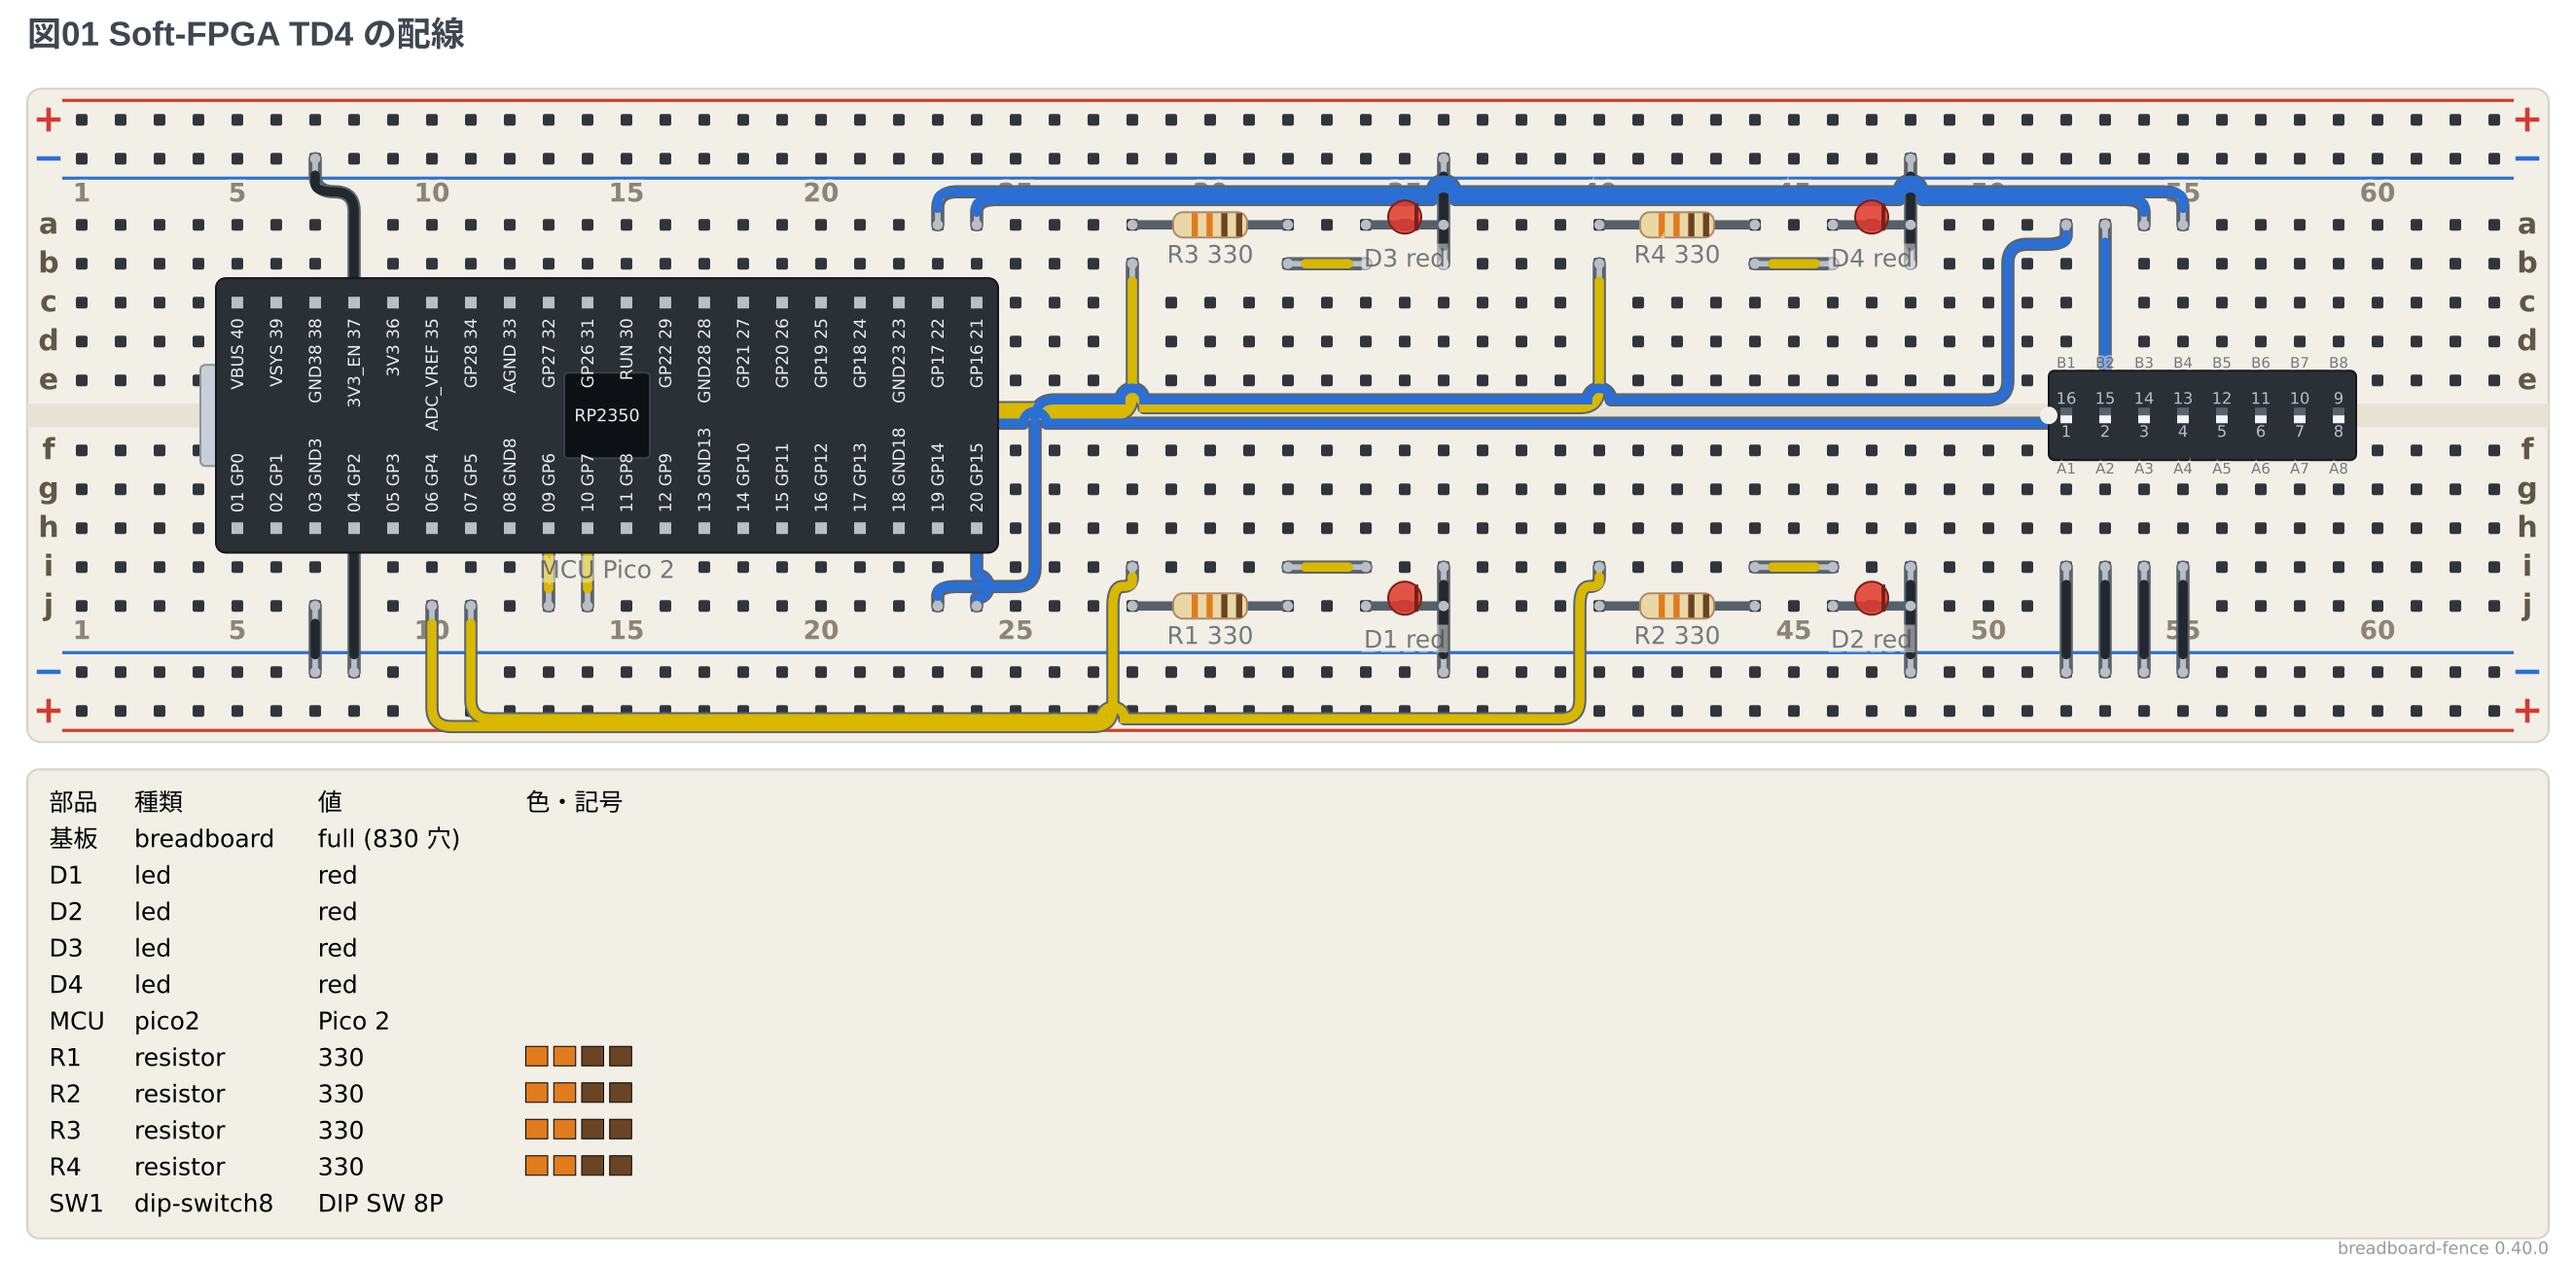
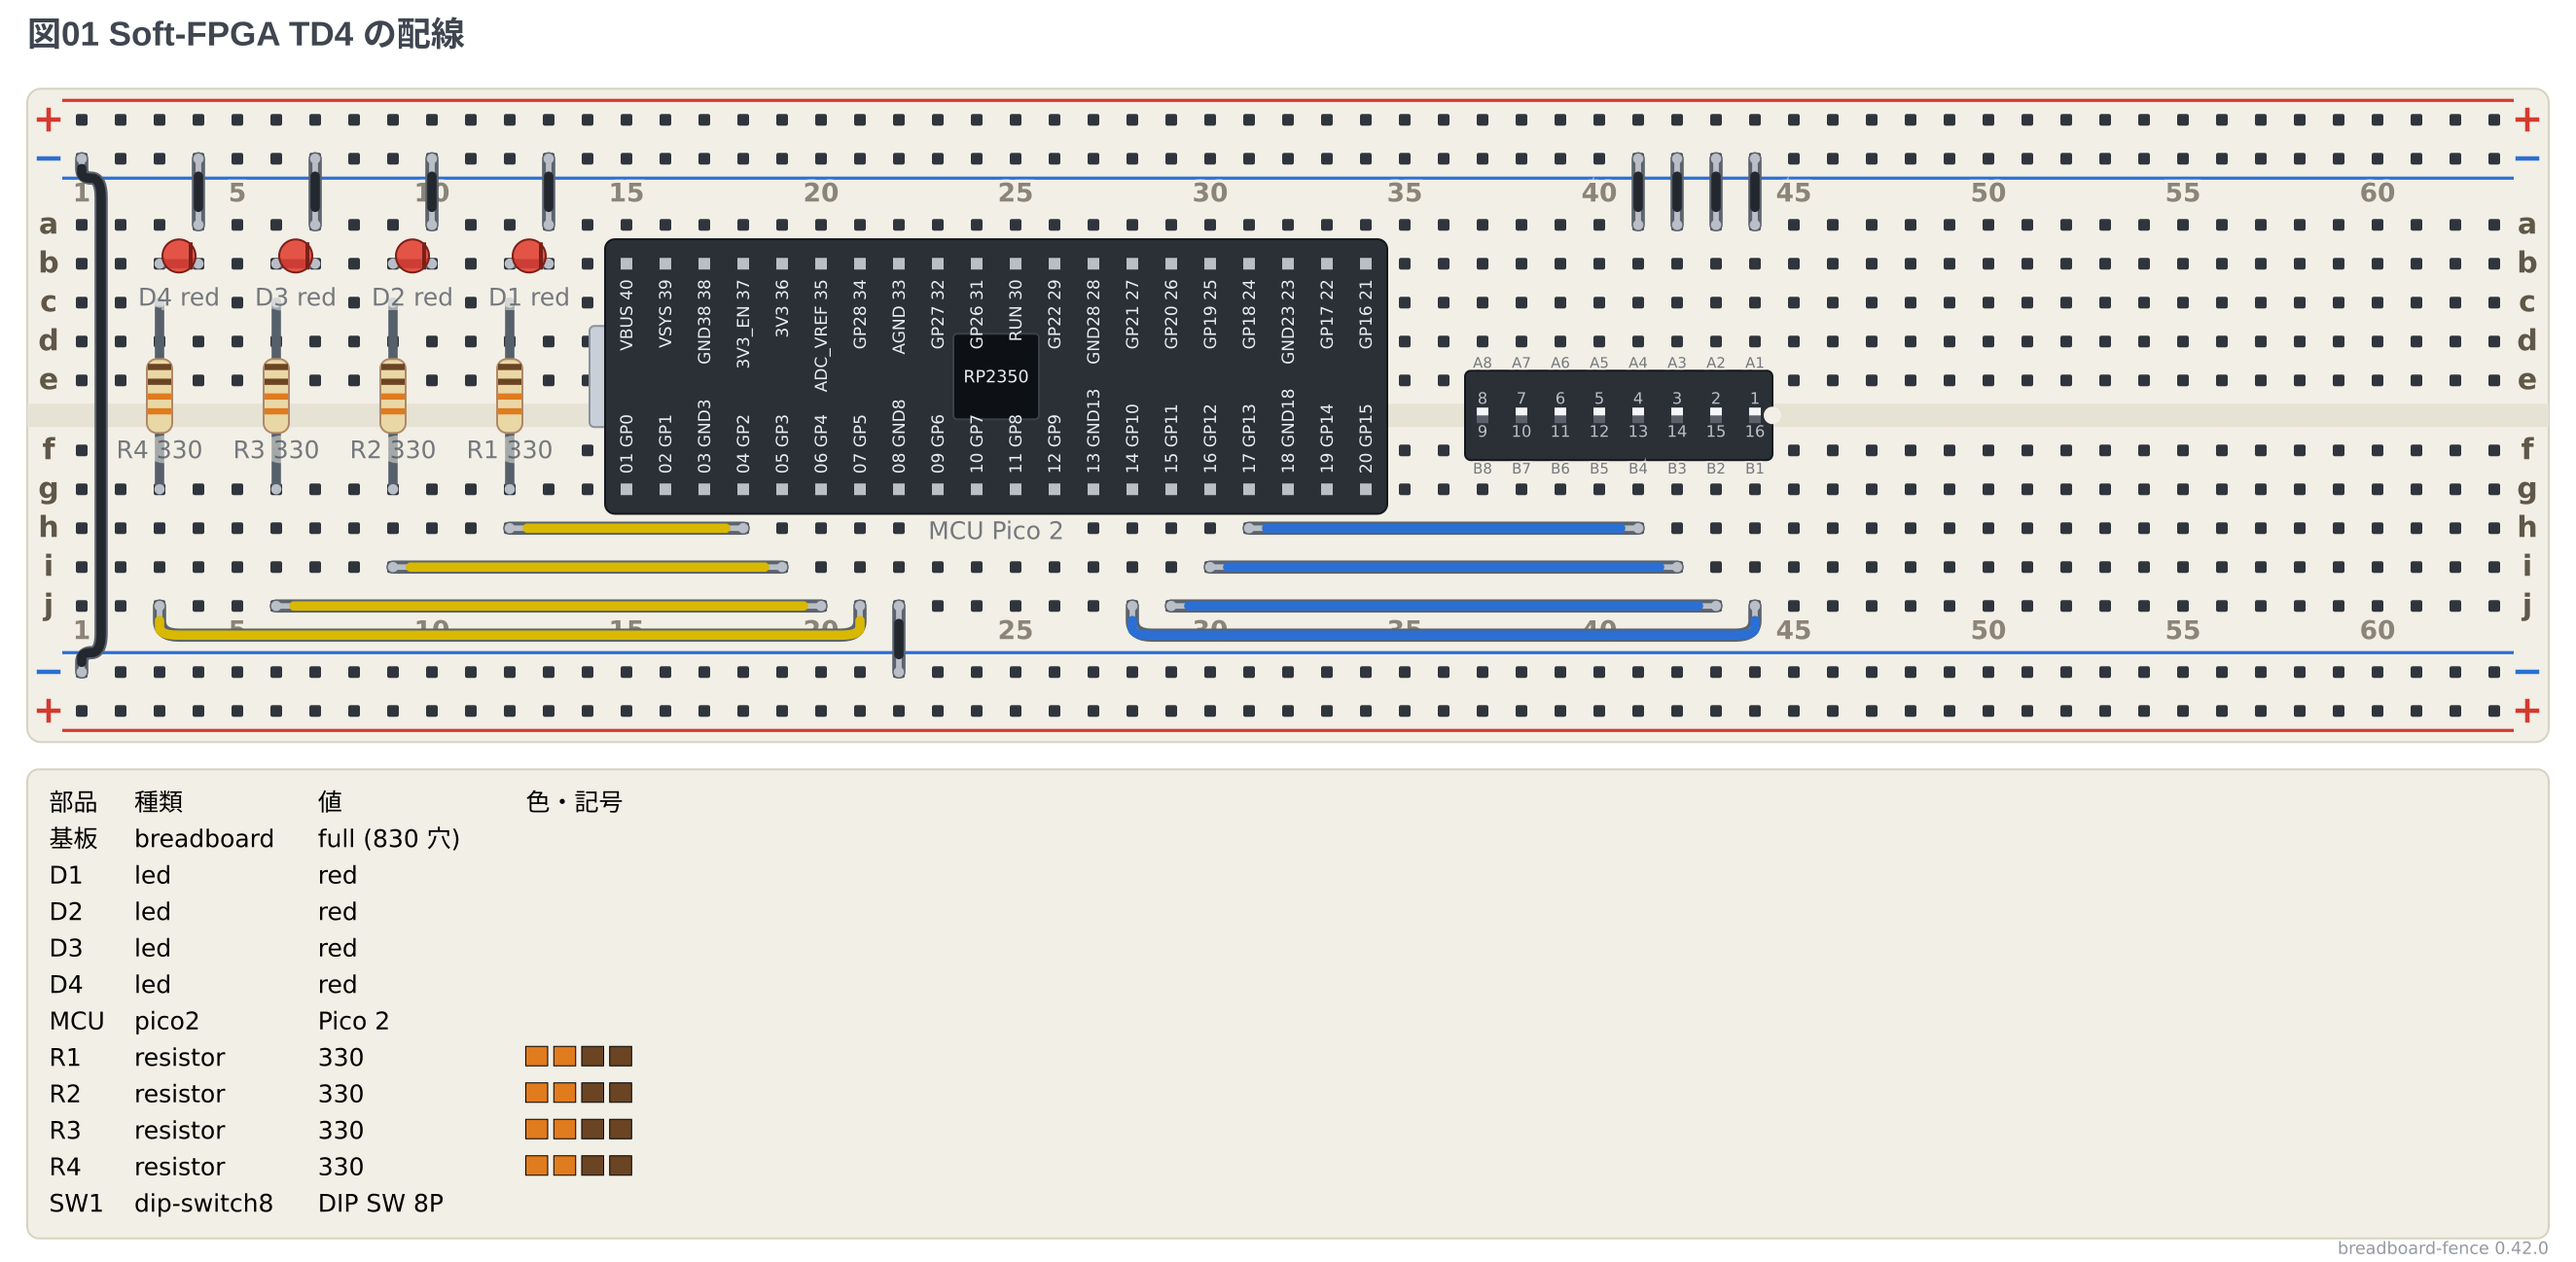
docs: 例 17 の Soft-FPGA TD4 のピンを main.cpp に合わせて描き直す
LED は GP2〜GP5、DIP スイッチは GP10〜GP13 (Soft-FPGA-TD4 の
verilator-TD4/main.cpp のとおり)。前は GP4〜GP7・GP14〜GP17 で合っていなかった。
配置は LED を左・DIP スイッチを右 (r180) にし、線を h・i・j の行に分けて
交差とレールへの乗り上げを無くした。

🤖 Generated with [Claude Code](https://claude.com/claude-code)

diff --git a/packages/breadboard-fence/examples/17-soft-fpga-td4.md b/packages/breadboard-fence/examples/17-soft-fpga-td4.md
@@ -4,54 +4,58 @@ GitHub の [Soft-FPGA-TD4](https://github.com/tommie-jp/Soft-FPGA-TD4) (Verilog 
 TD4 を Pico 2 の中で動かす) のブレッドボードを、このフェンスで描いたもの。
 **入力は DIP スイッチ (8 連のうち 4 つ)、出力は LED 4 つ。** FPGA は要らない。
 
-- IN_PORT: GP14〜GP17 ← DIP スイッチの 1〜4 番。反対のピンは GND。
-  **プルアップ抵抗は要らない** (Pico 2 の内蔵プルアップを使う。スイッチを ON にすると 0)
-- OUT_PORT: GP4〜GP7 → 330Ω → LED → GND
+- IN_PORT: GP10〜GP13 ← DIP スイッチの 1〜4 番 (GP10 が最上位ビット)。反対のピンは GND。
+  **プルアップ抵抗は要らない** (Pico 2 の内蔵プルアップを使う。スイッチを ON にするとピンは 0 で、
+  `main.cpp` が反転して 1 と読む)
+- OUT_PORT: GP2〜GP5 (GP2 が最上位ビット) → 330Ω → LED → GND
+
+ピンの割り当ては Soft-FPGA-TD4 の `verilator-TD4/main.cpp` のとおり。
 
 ```bread
 title: 図01 Soft-FPGA TD4 の配線
 board: full
 parts:
-  MCU: pico2 @ h5
-  R1: resistor j28 j32 330
-  D1: led j34(A) j36(K) red
-  R2: resistor j40 j44 330
-  D2: led j46(A) j48(K) red
-  R3: resistor a28 a32 330
-  D3: led a34(A) a36(K) red
-  R4: resistor a40 a44 330
-  D4: led a46(A) a48(K) red
-  SW1: dip-switch8 @ e52
+  MCU: pico2 @ g15
+  # LED は左。抵抗は溝をまたいで縦に、LED は上の段。左端が最下位ビット
+  R4: resistor g3 c3 330
+  D4: led b3(A) b4(K) red
+  R3: resistor g6 c6 330
+  D3: led b6(A) b7(K) red
+  R2: resistor g9 c9 330
+  D2: led b9(A) b10(K) red
+  R1: resistor g12 c12 330
+  D1: led b12(A) b13(K) red
+  # DIP スイッチは右。r180 で 1 番を右端に置き、使う 1〜4 番を Pico 2 の側に寄せる
+  SW1: dip-switch8 @ e37 r180
 wires:
-  # 電源は USB から。GND を下のレールへ
-  - j7 -- -b7 black
-  - -t7 -- -b8 black
-  # OUT_PORT: GP4 GP5 GP6 GP7 → 抵抗 → LED → GND
-  - j10 -- i28 yellow
-  - j11 -- i40 yellow
-  - j13 -- b28 yellow
-  - j14 -- b40 yellow
-  - i32 -- i34 yellow
-  - i44 -- i46 yellow
-  - b32 -- b34 yellow
-  - b44 -- b46 yellow
-  - i36 -- -b36 black
-  - i48 -- -b48 black
-  - b36 -- -t36 black
-  - b48 -- -t48 black
-  # IN_PORT: GP14 GP15 GP16 GP17 ← DIP スイッチ 1〜4 番、反対のピンは GND
-  - j23 -- a52 blue
-  - j24 -- a53 blue
-  - a24 -- a54 blue
-  - a23 -- a55 blue
-  - i52 -- -b52 black
-  - i53 -- -b53 black
-  - i54 -- -b54 black
-  - i55 -- -b55 black
+  # 電源は USB から。GND をレールへ (上下のレールは 1 列でつなぐ)
+  - j22 -- -b22 black
+  - -t1 -- -b1 black
+  # OUT_PORT: GP2 GP3 GP4 GP5 (GP2 が最上位ビット) → 抵抗 → LED → GND
+  - h18 -- h12 yellow
+  - i19 -- i9 yellow
+  - j20 -- j6 yellow
+  - j21 -- j3 yellow [v15]
+  - a4 -- -t4 black
+  - a7 -- -t7 black
+  - a10 -- -t10 black
+  - a13 -- -t13 black
+  # IN_PORT: GP10 GP11 GP12 GP13 (GP10 が最上位ビット) ← DIP スイッチ 1〜4 番、反対のピンは GND
+  - j28 -- j44 blue [v15]
+  - j29 -- j43 blue
+  - i30 -- i42 blue
+  - h31 -- h41 blue
+  - a41 -- -t41 black
+  - a42 -- -t42 black
+  - a43 -- -t43 black
+  - a44 -- -t44 black
 ```
 
 ![図01 Soft-FPGA TD4 の配線](out/17-soft-fpga-td4.svg)
 
-- `dip-switch8 @ e52` は溝をまたぐ 16 ピンの DIP。**k 番のスイッチは同じ列の `e` と `f` の間の接点**
-  (`B1`〜`B4` が `e52`〜`e55`、`A1`〜`A4` が `f52`〜`f55`)。使わない 5〜8 番はそのまま空けておく
+- `dip-switch8 @ e37 r180` は溝をまたぐ 16 ピンの DIP。`r180` で 1 番が右端 (列 44) に来るので、
+  使う 1〜4 番が Pico 2 の側に寄る。**k 番のスイッチは同じ列の `e` と `f` の間の接点**
+  (`A1`〜`A4` が `e44`〜`e41`、`B1`〜`B4` が `f44`〜`f41`)。使わない 5〜8 番 (列 40〜37) はそのまま空けておく
+- 4 本の線は `h` `i` `j` の行に分け、一番外の 1 本だけ迂回ヒント `[v15]` で深く通す。
+  こうすると線どうしが交差せず、レールにも乗らない
 - 図の上でスイッチの ON / OFF は決まらない (接点は開いたまま。実物は ON の向きが品ごとに違う)
